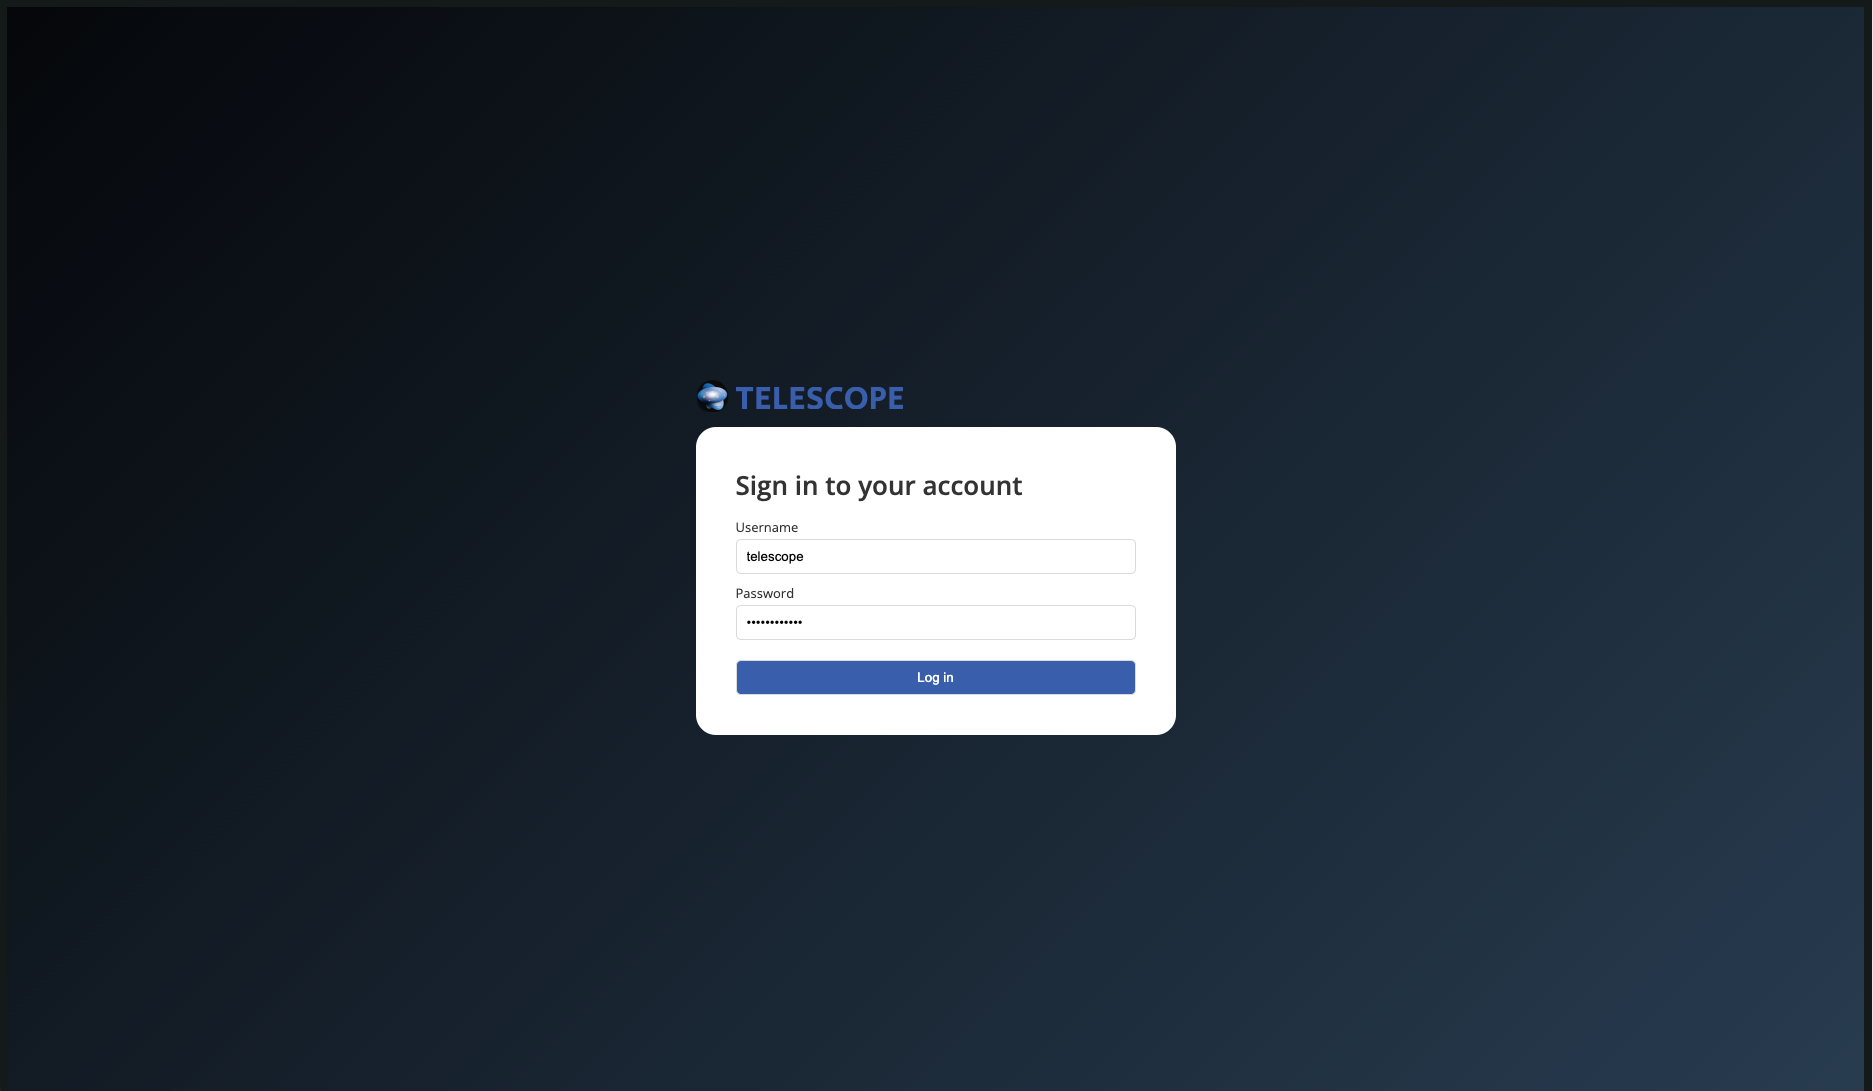
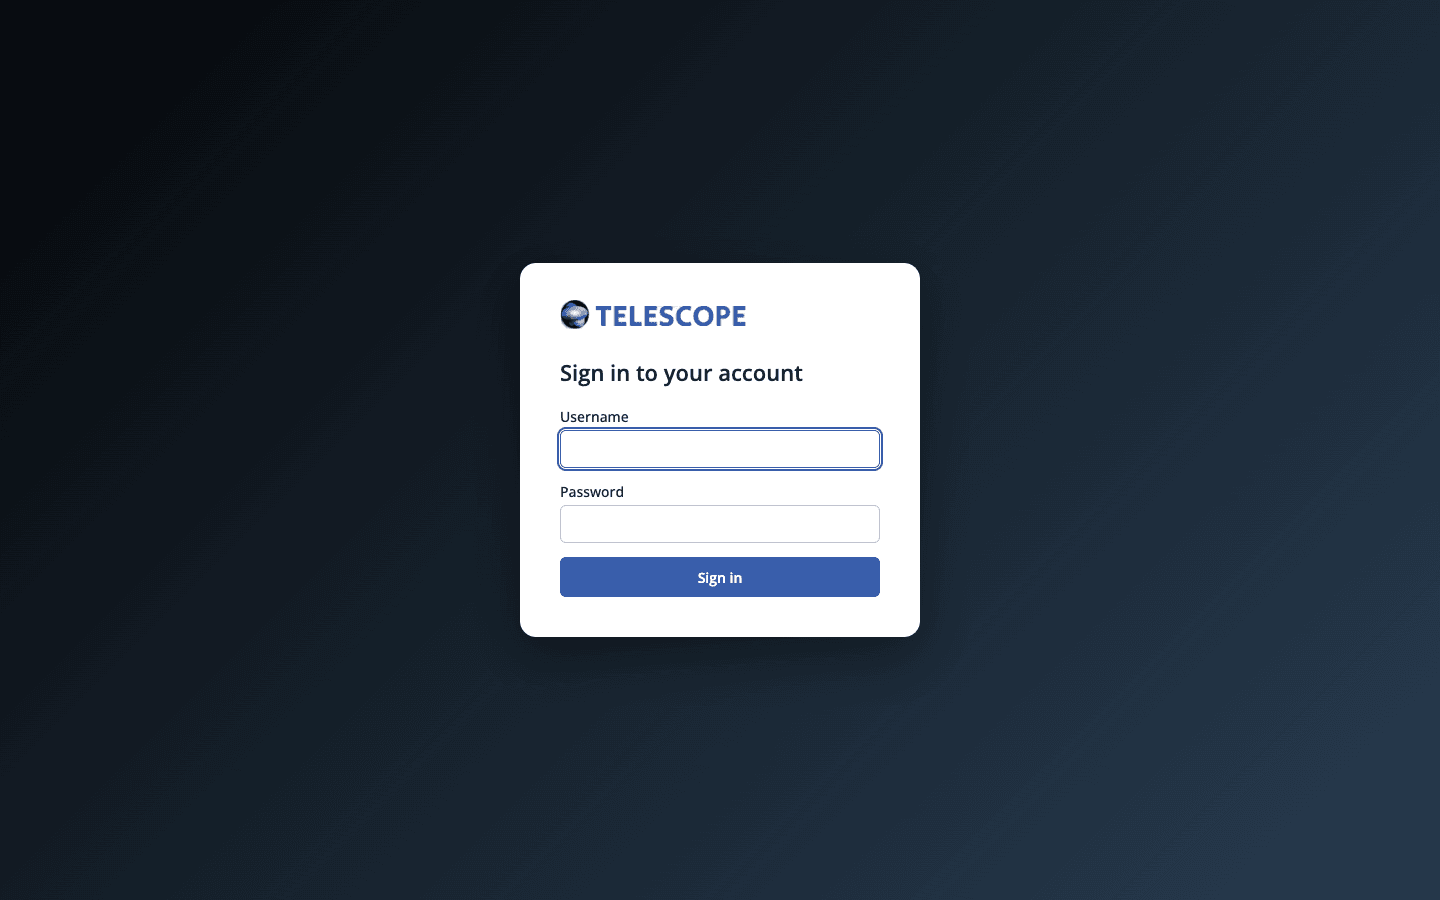
Refresh the screenshots
Retake every screenshot at 1440x900 from the demo instance, keeping the
existing names, and add shots of the pages added since: patterns, saved
views, the trace waterfall, the service map, the metrics explorer,
dashboards, the tile editor, raw SQL and log tiles, templates, alerts,
connections, the OTel source step and the command palette. List each with
a caption in screenshots/README.md.

Changed region(s): [[0.3438, 0.28, 0.6562, 0.7156], [0.9688, 0.0, 1.0, 1.0]]

diff --git a/screenshots/README.md b/screenshots/README.md
@@ -1,43 +1,133 @@
-# Telescope screnshots
+# Telescope screenshots
 
 ## Login
 ![Login](login_view.png)
+The username and password form.
 
 ## Data Explorer
 ![main.png](main.png)
+The logs explorer with a FlyQL query, the facets sidebar with pinned facets, and the histogram by severity.
 
 ## Data Explorer (dark theme)
 ![main_dark.png](main_dark.png)
-
-# Row detailed view
-![detailed_view.png](detailed_view.png)
+The same explorer view in the dark theme.
 
 ## Datepicker
 ![datepicker.png](datepicker.png)
+The time range picker with absolute dates, the time zone and relative ranges.
+
+## Row panel
+![detailed_view.png](detailed_view.png)
+A log row opened in the row panel: its overview, the exception and the attribute maps.
+
+## Patterns
+![patterns.png](patterns.png)
+The log messages of one service grouped into patterns, with counts and trends.
+
+## Saved views
+![saved_views.png](saved_views.png)
+The saved views of a source, with tags and favorites.
 
 ## Source data errors
 ![source_data_error.png](source_data_error.png)
+A failed search shows the database error in the results and in the facets.
+
+## Trace waterfall
+![trace_waterfall.png](trace_waterfall.png)
+A trace's spans as a waterfall, with the critical path and the per-trace service map.
+
+## Service map
+![service_map.png](service_map.png)
+Calls between services colored by error rate, with one service's panel open.
+
+## Metrics explorer
+![metrics_explorer.png](metrics_explorer.png)
+An OpenTelemetry gauge charted per pod.
+
+## Dashboards list
+![dashboards_list.png](dashboards_list.png)
+Shared dashboards, with favorites first.
+
+## Dashboard with variables and sections
+![dashboard_variables.png](dashboard_variables.png)
+A dashboard made from the Services template, with a `service` variable, a section and release markers.
+
+## Tile editor
+![tile_editor.png](tile_editor.png)
+Editing a tile: display, source, series, filter and group by, with a live preview.
+
+## Raw SQL tile
+![raw_sql_tile.png](raw_sql_tile.png)
+A raw SQL tile in the tile editor, using `$__timeFilter` and a `{service:String}` variable.
+
+## Log rows and patterns tiles
+![log_tiles.png](log_tiles.png)
+A dashboard with a raw SQL tile, a patterns tile and a log rows tile, all following the `service` variable.
+
+## Templates
+![templates.png](templates.png)
+The dashboard template gallery.
+
+## Alerts
+![alerts_list.png](alerts_list.png)
+The alerts list with states, conditions and silence and enable controls.
+
+## Alert editor
+![alert_editor.png](alert_editor.png)
+Editing a search alert, with the preview of the last 24 windows.
+
+## Alert history
+![alert_history.png](alert_history.png)
+An alert's summary, its value against the threshold, and its evaluations.
+
+## Alert channels
+![alert_channels.png](alert_channels.png)
+Notification channels; secrets in targets are masked.
 
 ## Sources list
 ![sources_list.png](sources_list.png)
+All sources with their kind and connection.
 
 ## Source view
 ![source_view.png](source_view.png)
+A source's settings and columns.
 
 ## Source edit
 ![source_edit.png](source_edit.png)
+The first step of the source wizard.
 
-## Source Acess Control
+## Source OpenTelemetry roles
+![otel_roles.png](otel_roles.png)
+The OTel step of the source wizard: signal, column roles and linked sources.
+
+## Source Access Control
 ![source_access_control.png](source_access_control.png)
+Role bindings of a source for users and groups.
+
+## Connections list
+![connections_list.png](connections_list.png)
+All connections.
+
+## Connection Access Control
+![connection_view.png](connection_view.png)
+Role bindings of a connection, including the `raw_sql_user` role.
 
 ## RBAC view
 ![rbac_view.png](rbac_view.png)
+Every role and its permissions.
 
 ## Groups
 ![groups.png](groups.png)
+The groups list.
 
 ## Group view
 ![group_view.png](group_view.png)
+A group with its global roles and members.
 
 ## Users
 ![users.png](users.png)
+The users list.
+
+## Command palette
+![command_palette.png](command_palette.png)
+The command palette (`⌘K` / `Ctrl+K`) searching pages and dashboards.
